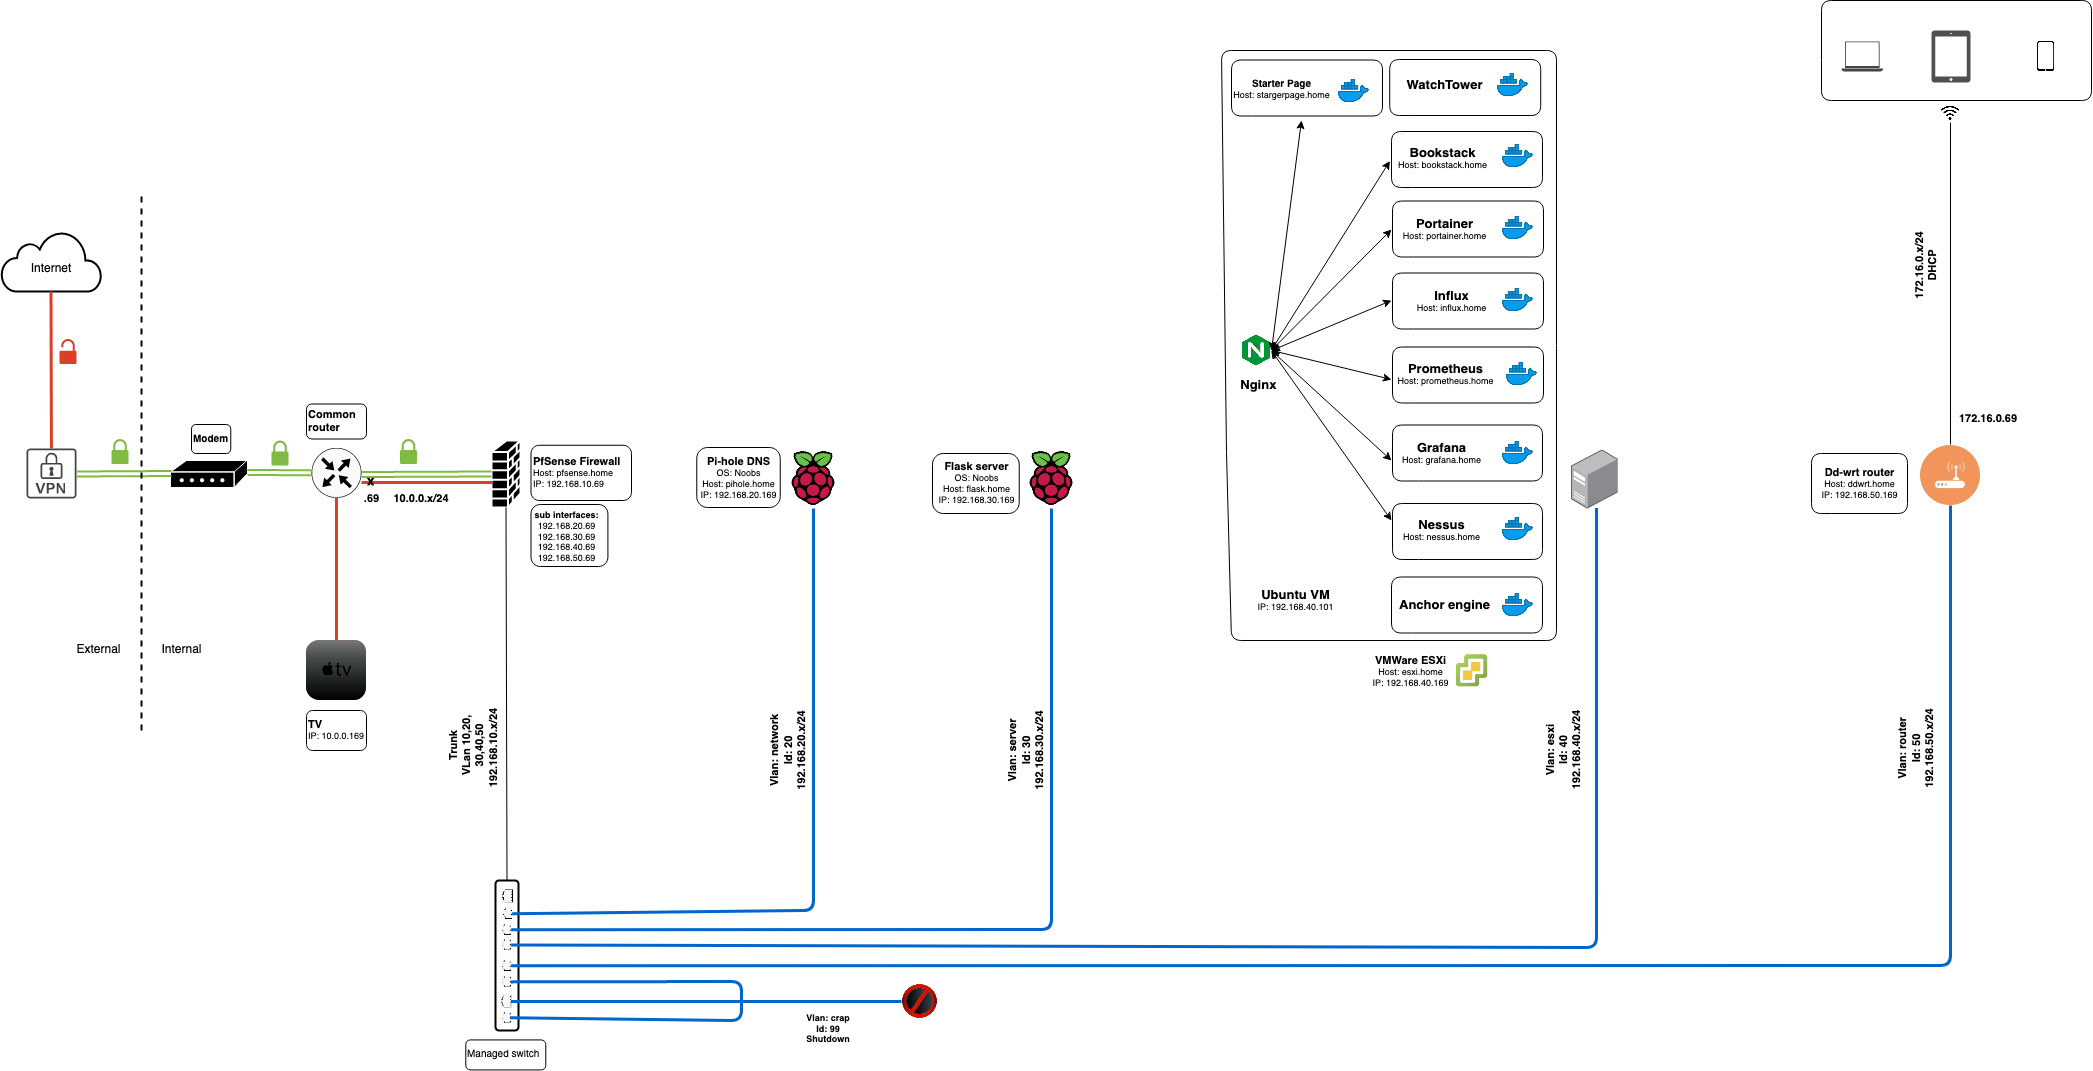
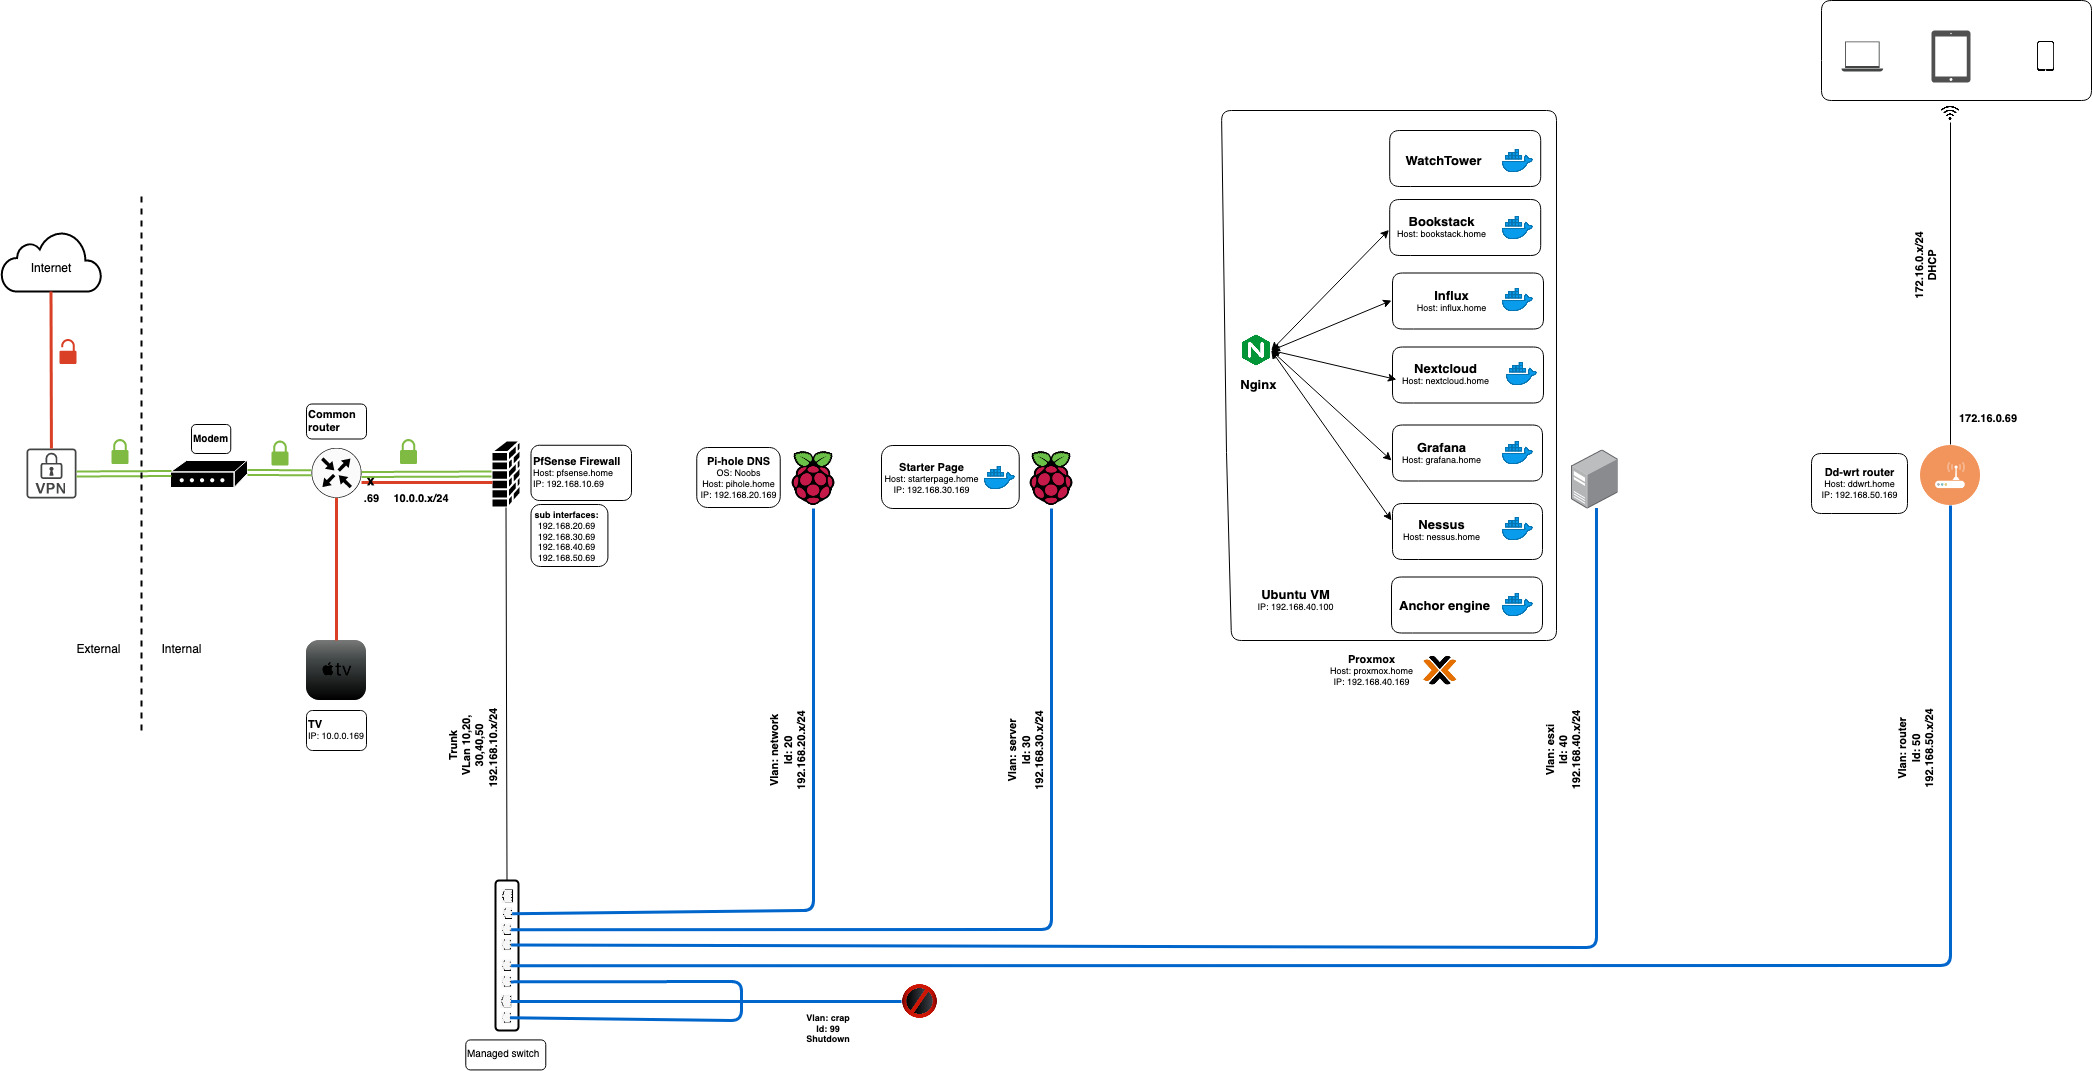
Updated new services: proxmox, nextcloud and remove unused services.

diff --git a/README.md b/README.md
@@ -7,14 +7,12 @@ This repo shows Network diagram and lists Operating systems and Services that ar
 
 ### Services
 - [Pi-hole](https://pi-hole.net/) used for DNS.
+- [Bookstack](https://www.bookstackapp.com/) used for organising and storing information.
+- [Nextcloud](https://nextcloud.com/) used for home cloud.
 - [Starter Page](https://github.com/scurtyhub/startpage) used for hosting home page for Web Browser.
-- [Flask server](https://flask.palletsprojects.com/) used for Website.
 - [Nginx](https://www.nginx.com/) used for Reverse Proxy.
 - [Docker](https://www.docker.com/) used for Container platform.
-- [Bookstack](https://www.bookstackapp.com/) used for organising and storing information.
-- [Portainer](https://www.portainer.io/) used for docker management.
 - [Watchtower](https://github.com/containrrr/watchtower) to update running containers.
-- [Prometheus](https://prometheus.io/) used for systems monitoring.
 - [InfluxDB](https://www.influxdata.com/) used as a time series database.
 - [Grafana](https://grafana.com/) used for visualization.
 - [Anchor Engine](https://anchore.com/) used for container scanning.
@@ -25,5 +23,5 @@ This repo shows Network diagram and lists Operating systems and Services that ar
 - [Cisco IOS](https://www.cisco.com/c/en/us/products/ios-nx-os-software/index.html) on Cisco Switch.
 - [Noobs Lite](https://www.raspberrypi.org/downloads/noobs/) on Raspberry Pi.
 - [Ubuntu server](https://ubuntu.com/download/server) on Hypervisor.
-- [VMWare ESXi](https://www.vmware.com/products/esxi-and-esx.html) on Dell PowerEdge T30.
+- [Proxmox virtualization](https://www.proxmox.com/) on Dell PowerEdge T30.
 - [DD-WRT](http://www.dd-wrt.com/) on Netgear Router.
